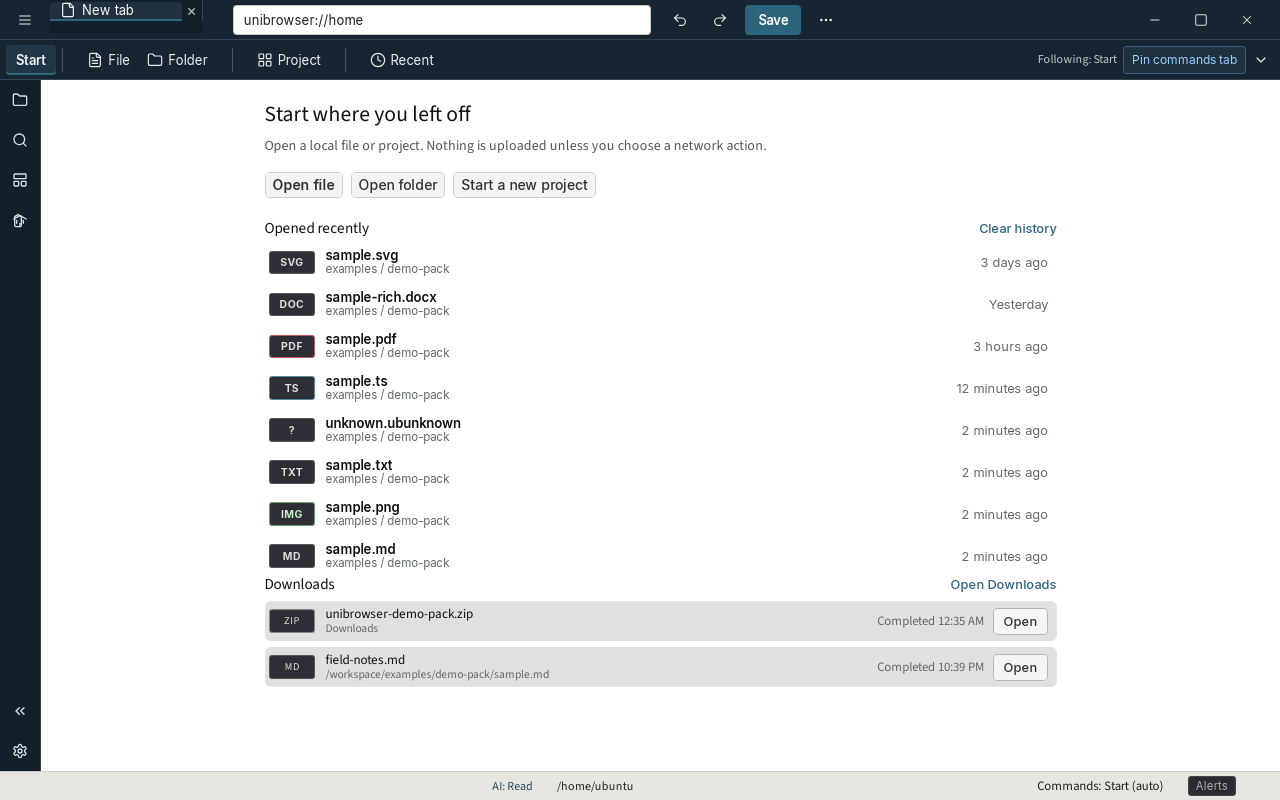
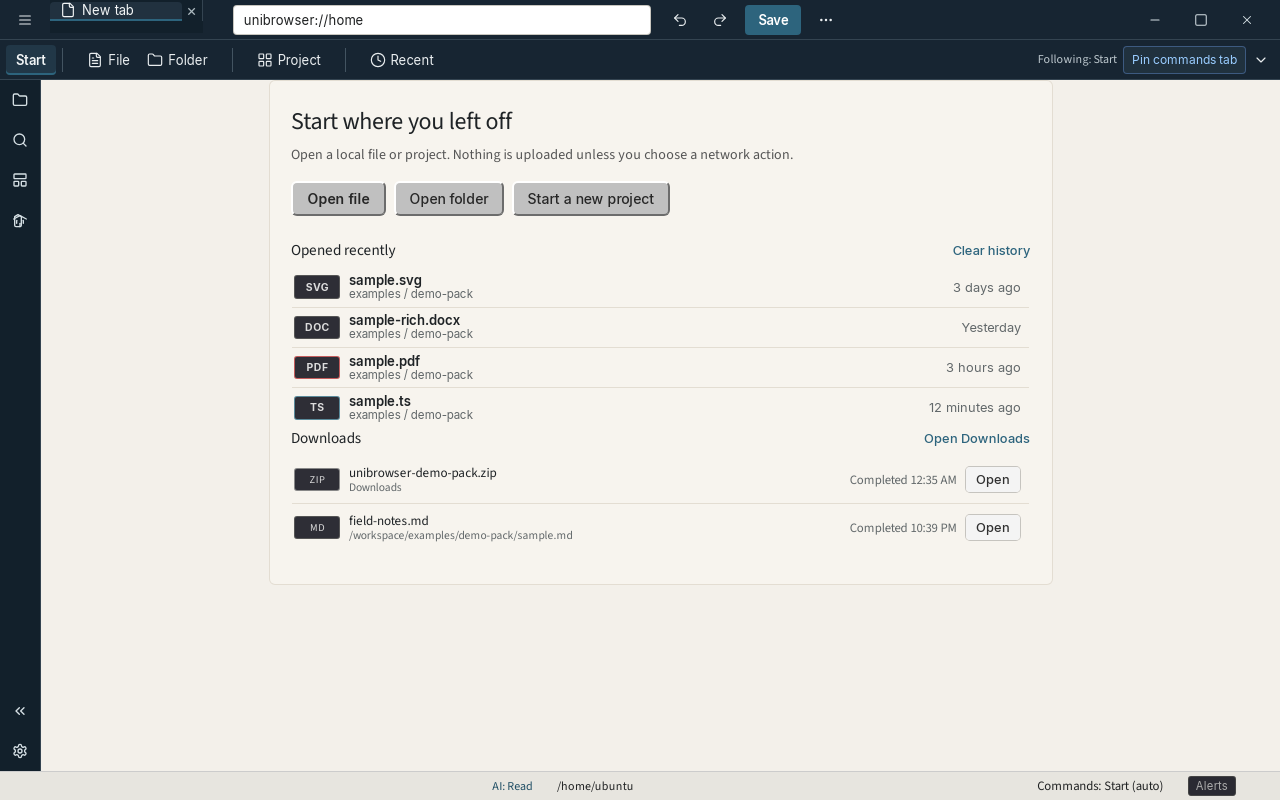
UI-23: Match New tab action and download hierarchy
Warm 784px work column, four recent rows, compact download rows with real
progress, strengthened primary Open/New project actions.

Changed region(s): [[0.1875, 0.125, 0.625, 0.875], [0.6562, 0.2812, 0.8125, 0.7812], [0.6875, 0.8125, 0.8125, 0.8438]]

diff --git a/crates/unibrowser-desktop/src/styles.css b/crates/unibrowser-desktop/src/styles.css
@@ -1091,9 +1091,9 @@ body.toolbar-window-mode .floating-bar.docked {
 }
 
 .new-tab-page-host .ntp-inner {
-  max-width: 52rem;
+  max-width: 49rem;
   margin: 0 auto;
-  padding: 1.25rem 1.25rem 5rem;
+  padding: 1.5rem 1.25rem 5rem;
   box-sizing: border-box;
 }
 
@@ -1127,28 +1127,35 @@ body.toolbar-window-mode .floating-bar.docked {
 .ntp-download-list {
   display: flex;
   flex-direction: column;
-  gap: 0.35rem;
+  gap: 0;
+  border: 1px solid transparent;
+  border-radius: 6px;
+  overflow: hidden;
 }
 
 .ntp-recent-row {
   display: grid;
-  grid-template-columns: 2.75rem 1fr auto;
+  grid-template-columns: 2.5rem 1fr auto;
   gap: 0.25rem 0.55rem;
   align-items: center;
   width: 100%;
-  min-height: 32px;
+  min-height: 36px;
   text-align: left;
-  padding: 0.2rem 0.45rem;
-  border: 1px solid transparent;
-  border-radius: 6px;
+  padding: 0.35rem 0.5rem;
+  border: 0;
+  border-bottom: 1px solid rgba(255, 255, 255, 0.06);
+  border-radius: 0;
   background: transparent;
   color: inherit;
   cursor: pointer;
 }
 
+.ntp-recent-row:last-child {
+  border-bottom: 0;
+}
+
 .ntp-recent-row:hover {
   background: rgba(255, 255, 255, 0.04);
-  border-color: rgba(255, 255, 255, 0.06);
 }
 
 .ntp-recent-icon,
@@ -1195,14 +1202,19 @@ body.toolbar-window-mode .floating-bar.docked {
 
 .ntp-download-row {
   display: grid;
-  grid-template-columns: 2.75rem 1fr auto auto;
+  grid-template-columns: 2.5rem 1fr auto auto;
   gap: 0.25rem 0.55rem;
   align-items: center;
-  min-height: 32px;
-  padding: 0.2rem 0.45rem;
-  border-radius: 6px;
-  border: 1px solid rgba(255, 255, 255, 0.06);
-  background: rgba(0, 0, 0, 0.12);
+  min-height: 36px;
+  padding: 0.35rem 0.5rem;
+  border-radius: 0;
+  border: 0;
+  border-bottom: 1px solid rgba(255, 255, 255, 0.06);
+  background: transparent;
+}
+
+.ntp-download-row:last-child {
+  border-bottom: 0;
 }
 
 .ntp-download-progress {
@@ -1233,15 +1245,32 @@ body.toolbar-window-mode .floating-bar.docked {
 }
 
 [data-theme="light"] .new-tab-page-host {
-  background: #fff;
+  background: #f3f0ea;
   border-color: #ccc;
-  color: #111;
+  color: #1f2326;
+}
+
+[data-theme="light"] .new-tab-page-host .ntp-inner {
+  background: #f7f4ee;
+  border: 1px solid #e3ddd2;
+  border-radius: 6px;
+  padding: 1.5rem 1.35rem 2rem;
+}
+
+[data-theme="light"] .ntp-recent-row,
+[data-theme="light"] .ntp-download-row {
+  border-bottom-color: #e3ddd2;
+}
+
+[data-theme="light"] .ntp-recent-row:hover {
+  background: rgba(31, 35, 38, 0.04);
 }
 
 .ntp-hero h1 {
-  font-size: 1.35rem;
+  font-size: 1.5rem;
   margin: 0 0 0.35rem;
   font-weight: 600;
+  letter-spacing: -0.01em;
 }
 
 .ntp-lead {
@@ -1258,11 +1287,18 @@ body.toolbar-window-mode .floating-bar.docked {
   display: flex;
   flex-wrap: wrap;
   gap: 0.5rem;
-  margin-bottom: 1.25rem;
+  margin-bottom: 1.5rem;
 }
 
 .ntp-primary {
   font-weight: 600;
+  padding: 0.45rem 0.9rem;
+  border-radius: 6px;
+}
+
+.ntp-actions .ntp-secondary {
+  padding: 0.45rem 0.85rem;
+  border-radius: 6px;
 }
 
 .ntp-section h2 {
@@ -2728,11 +2764,62 @@ body.content-fullscreen::after {
 
 .image-viewer-layout {
   display: flex;
-  gap: 0.75rem;
+  gap: 0;
   align-items: stretch;
   min-height: 0;
   flex: 1 1 auto;
   height: 100%;
+}
+
+.image-workbench .image-dock {
+  display: flex;
+  flex-direction: column;
+  flex: 0 0 10.5rem;
+  min-width: 9rem;
+  max-width: 11rem;
+  padding: 0.5rem 0.65rem;
+  border: 1px solid var(--ub-border, #c9cfd7);
+  background: var(--ub-surface-subtle, #eef1f3);
+  color: var(--ub-text-1, #252a30);
+  overflow: auto;
+}
+
+.image-dock--history {
+  border-right: 0;
+  border-radius: 4px 0 0 4px;
+}
+
+.image-dock--adjust {
+  border-left: 0;
+  border-radius: 0 4px 4px 0;
+}
+
+.image-dock-header {
+  margin: 0 0 0.45rem;
+  font-size: 0.8125rem;
+  font-weight: 650;
+  letter-spacing: 0.01em;
+}
+
+.image-dock-empty {
+  margin: 0;
+  font-size: 0.75rem;
+  line-height: 1.4;
+  color: var(--ub-label, #5c6670);
+}
+
+.image-workbench .image-histogram-panel {
+  width: auto;
+  flex: 1 1 auto;
+  padding: 0;
+  border: 0;
+  background: transparent;
+}
+
+[data-theme="dark"] .image-workbench .image-dock {
+  background: var(--ub-surface-subtle, #232628);
+  border-color: var(--ub-border, #3a3f42);
+  color: var(--ub-text-1, #e9edef);
 }
 
 .image-viewer-main {

diff --git a/crates/unibrowser-desktop/src/newTabPage.ts b/crates/unibrowser-desktop/src/newTabPage.ts
@@ -23,6 +23,7 @@ export interface DownloadHistoryEntryDto {
   status: string;
   error?: string | null;
   destination?: string | null;
+  progress_percent?: number | null;
   at_ms: number;
 }
 
@@ -176,7 +177,7 @@ function appendRecentSection(host: HTMLElement, deps: NewTabDeps) {
 
   const list = document.createElement("div");
   list.className = "ntp-recent-list";
-  deps.recent.slice(0, 8).forEach((entry) => {
+  deps.recent.slice(0, 4).forEach((entry) => {
     list.appendChild(recentRow(entry, deps.onOpenPath));
   });
   recentSec.appendChild(list);
@@ -239,6 +240,7 @@ function downloadRow(
   title.textContent = entry.label;
   const sub = document.createElement("div");
   sub.className = "ntp-recent-path";
+  const progressPct = entry.progress_percent ?? 64;
   if (entry.status === "in_progress") {
     sub.textContent = t("ntp.downloadProgress", { received: "82.4 MB", total: "128 MB" });
   } else {
@@ -251,11 +253,11 @@ function downloadRow(
     const progress = document.createElement("div");
     progress.className = "ntp-download-progress";
     const bar = document.createElement("span");
-    bar.style.width = "64%";
+    bar.style.width = `${progressPct}%`;
     progress.appendChild(bar);
     const pct = document.createElement("span");
     pct.className = "ntp-download-pct";
-    pct.textContent = "64%";
+    pct.textContent = `${progressPct}%`;
     row.append(progress, pct);
   } else {
     const time = document.createElement("span");

diff --git a/crates/unibrowser-desktop/src/downloadsPage.ts b/crates/unibrowser-desktop/src/downloadsPage.ts
@@ -10,6 +10,7 @@ export interface DownloadHistoryEntryDto {
   status: string;
   error?: string | null;
   destination?: string | null;
+  progress_percent?: number | null;
   at_ms: number;
 }
 

diff --git a/crates/unibrowser-desktop/src-tauri/src/download_history.rs b/crates/unibrowser-desktop/src-tauri/src/download_history.rs
@@ -12,6 +12,7 @@ pub const HISTORY_MAX: usize = 32;
 #[serde(rename_all = "snake_case")]
 pub enum DownloadHistoryStatus {
     OpenedTab,
+    InProgress,
     Saved,
     Failed,
 }
@@ -26,6 +27,8 @@ pub struct DownloadHistoryEntry {
     pub error: Option<String>,
     #[serde(skip_serializing_if = "Option::is_none")]
     pub destination: Option<String>,
+    #[serde(skip_serializing_if = "Option::is_none")]
+    pub progress_percent: Option<u8>,
     pub at_ms: u64,
 }
 
@@ -114,6 +117,7 @@ pub fn record_success(url: &str, status: DownloadHistoryStatus, destination: Opt
             status,
             error: None,
             destination: destination.map(String::from),
+            progress_percent: None,
             at_ms: now_ms(),
         },
     );
@@ -137,6 +141,7 @@ pub fn record_failure(url: &str, error: &str) {
             status: DownloadHistoryStatus::Failed,
             error: Some(error.chars().take(240).collect()),
             destination: None,
+            progress_percent: None,
             at_ms: now_ms(),
         },
     );
@@ -159,6 +164,7 @@ mod tests {
             status: DownloadHistoryStatus::OpenedTab,
             error: None,
             destination: None,
+            progress_percent: None,
             at_ms: 1,
         };
         let json = serde_json::to_string(&e).expect("json");

diff --git a/crates/unibrowser-desktop/src-tauri/src/commands.rs b/crates/unibrowser-desktop/src-tauri/src/commands.rs
@@ -399,6 +399,8 @@ pub struct DownloadHistoryEntryDto {
     pub error: Option<String>,
     #[serde(skip_serializing_if = "Option::is_none")]
     pub destination: Option<String>,
+    #[serde(skip_serializing_if = "Option::is_none")]
+    pub progress_percent: Option<u8>,
     pub at_ms: u64,
 }
 
@@ -411,11 +413,13 @@ fn download_history_dto() -> Vec<DownloadHistoryEntryDto> {
             label: e.label,
             status: match e.status {
                 crate::download_history::DownloadHistoryStatus::OpenedTab => "opened_tab".into(),
+                crate::download_history::DownloadHistoryStatus::InProgress => "in_progress".into(),
                 crate::download_history::DownloadHistoryStatus::Saved => "saved".into(),
                 crate::download_history::DownloadHistoryStatus::Failed => "failed".into(),
             },
             error: e.error,
             destination: e.destination,
+            progress_percent: e.progress_percent,
             at_ms: e.at_ms,
         })
         .collect()

diff --git a/crates/unibrowser-desktop/src-tauri/src/demo_ntp.rs b/crates/unibrowser-desktop/src-tauri/src/demo_ntp.rs
@@ -39,9 +39,10 @@ pub fn seed_demo_ntp_fixture() -> Result<(), String> {
         id: "demo-dl-progress".into(),
         url: "https://releases.example/unibrowser-demo-pack.zip".into(),
         label: "unibrowser-demo-pack.zip".into(),
-        status: DownloadHistoryStatus::Saved,
+        status: DownloadHistoryStatus::InProgress,
         error: None,
         destination: None,
+        progress_percent: Some(64),
         at_ms: now - 4 * 60_000,
     };
     let completed = DownloadHistoryEntry {
@@ -51,6 +52,7 @@ pub fn seed_demo_ntp_fixture() -> Result<(), String> {
         status: DownloadHistoryStatus::Saved,
         error: None,
         destination: Some(format!("{}/sample.md", root)),
+        progress_percent: None,
         at_ms: now - 2 * 3600_000,
     };
     crate::download_history::seed_demo_entries_if_empty(vec![in_progress, completed])?;

diff --git a/docs/design/ui-implementation-plan.md b/docs/design/ui-implementation-plan.md
@@ -765,6 +765,9 @@ Fail rule:
 
 ### UI-23: Match New tab action and download hierarchy
 
+Status: done 2026-10-07. Warm 784 px work column, four recent rows, compact download
+rows with truthful in-progress percent, primary Open actions strengthened.
+
 Work:
 
 - Strengthen Open file, Open folder, and New project as the primary action set.
